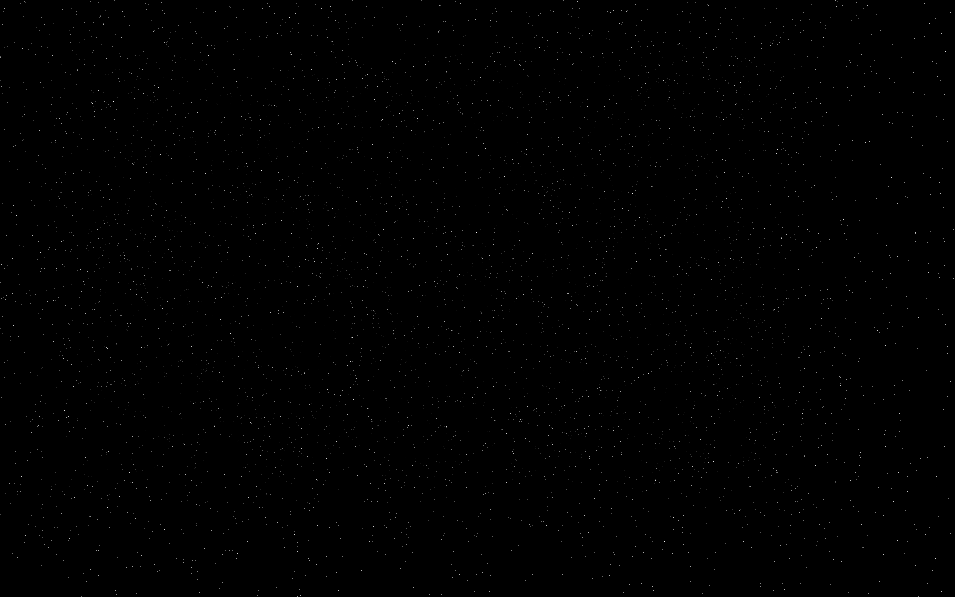
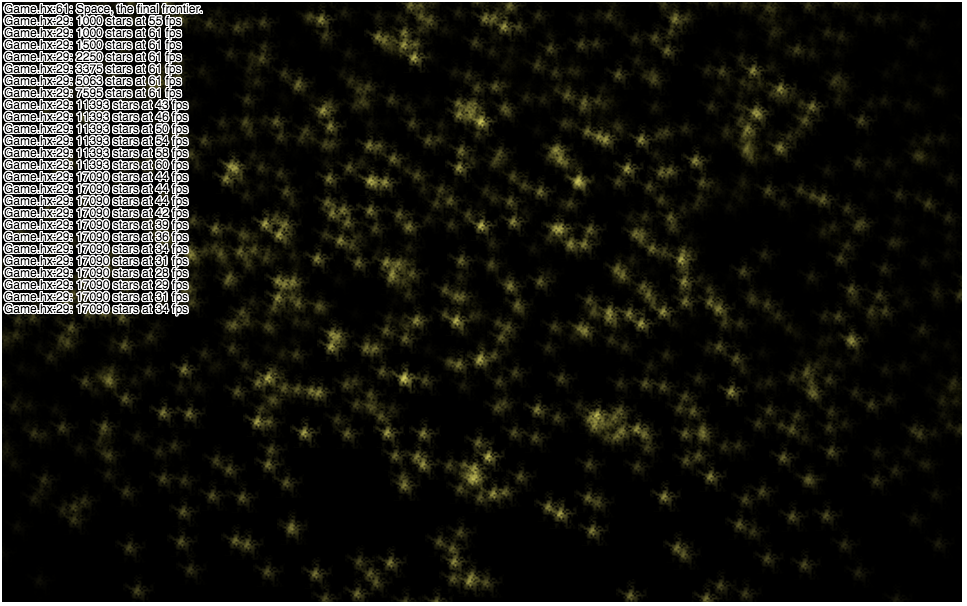
Readme

diff --git a/README.md b/README.md
@@ -1,8 +1,8 @@
-A simple starfield made as a warmup for Ludum Dare 32.
+Transparent sprite stress test. 
 
 ![stars](https://raw.github.com/Bemmu/HaxeStarfield/master/img/stars.png "Stars")
 
-Haxe is faster than I expected. I can have hundreds of thousands of stars moving simultaneously on my MBP with no optimization.
-
+The number of stars is increased gradually until frames per second falls under 60.
+My system can do about 10,000 at a time.
 
 
